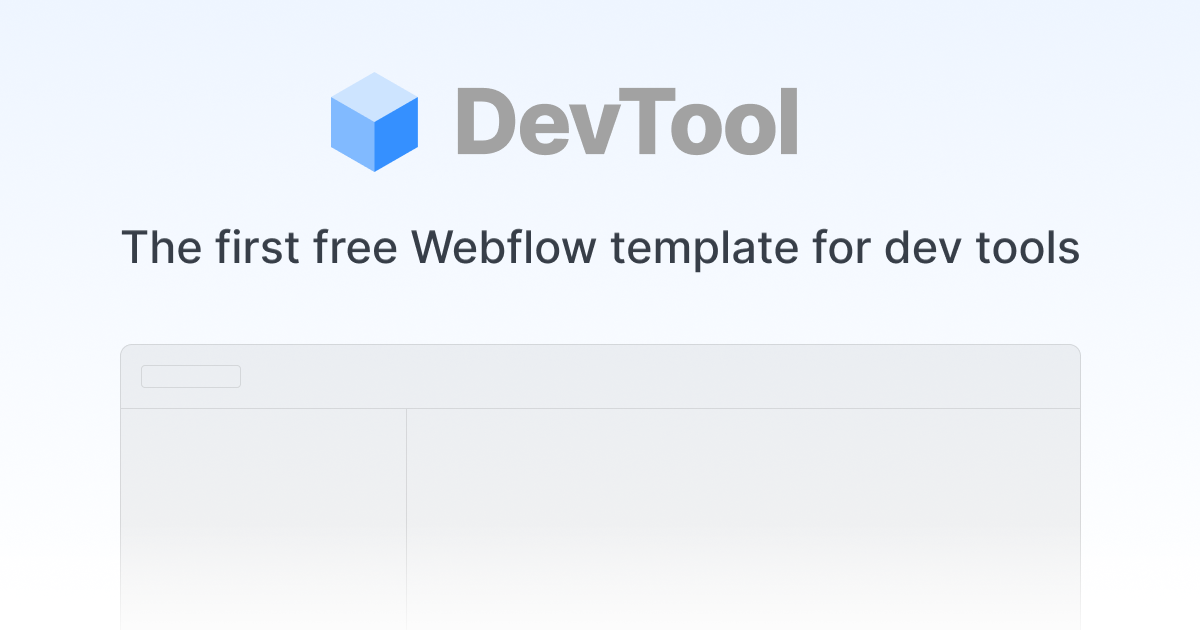
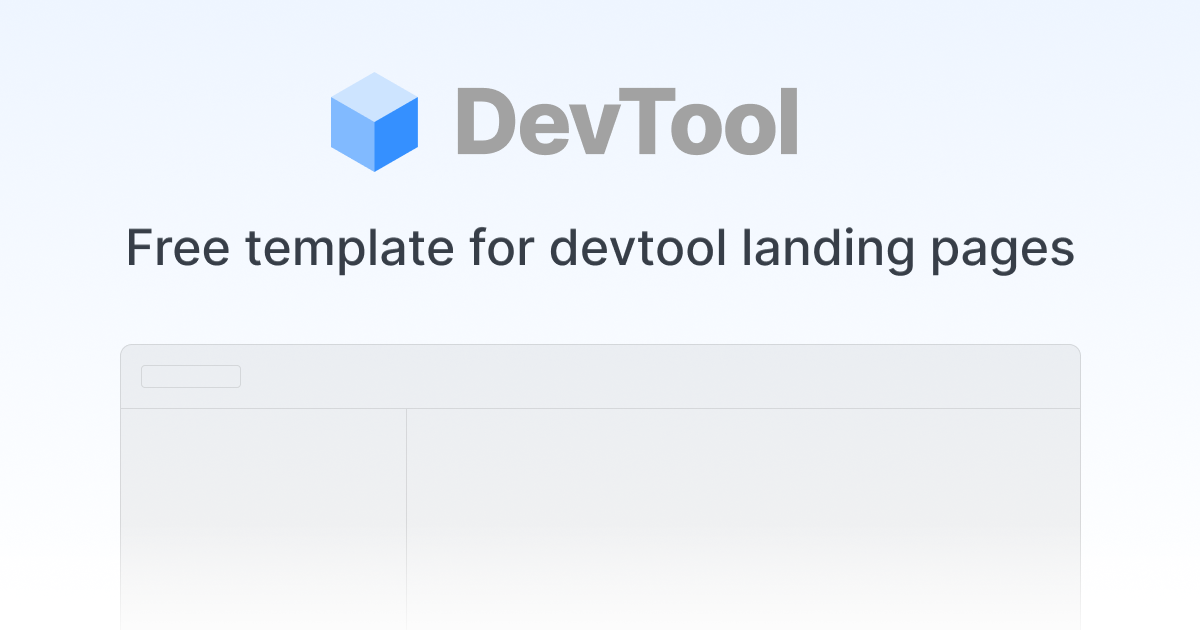
Fix naming

Changed region(s): [[0.0925, 0.3619, 0.8942, 0.4524]]

diff --git a/index.html b/index.html
@@ -4,8 +4,8 @@
 
 <head>
   <meta charset="utf-8" />
-  <title>LaunchKit — the first free template for dev tools</title>
-  <meta content="The first free template for dev tools" name="description" />
+  <title>LaunchKit — free template for devtool landing pages</title>
+  <meta content="Free template for devtool landing pages" name="description" />
   <meta content="width=device-width, initial-scale=1" name="viewport" />
 
   <!-- Open Graph -->
@@ -13,7 +13,7 @@
   <meta property="og:site_name" content="LaunchKit" />
   <meta property="og:locale" content="en_US" />
   <meta property="og:title" content="LaunchKit" />
-  <meta property="og:description" content="The first free template for dev tools" />
+  <meta property="og:description" content="Free template for devtool landing pages" />
   <meta property="og:url" content="https://launchkit.evilmartians.io" />
   <meta property="og:image" content="https://launchkit.evilmartians.io/social-image.png" />
   <meta property="og:image:width" content="1200" />
@@ -21,7 +21,7 @@
   <meta name="twitter:site" content="@evilmartians" />
   <meta name="twitter:card" content="summary_large_image" />
   <meta name="twitter:title" content="LaunchKit" />
-  <meta name="twitter:description" content="The first free template for dev tools" />
+  <meta name="twitter:description" content="Free template for devtool landing pages" />
   <meta name="twitter:image" content="https://launchkit.evilmartians.io/social-image.png" />
   <meta name="twitter:url" content="https://launchkit.evilmartians.io" />
 
@@ -70,7 +70,7 @@
         <div class="heading hero centered">
           <a href="#" class="eyebrow">Version 2.0 released!</a>
           <h1 class="balanced">
-            Free template for dev tool landing pages
+            Free template for devtool landing pages
           </h1>
           <p class="paragraph m secondary balanced">
             Use this template to launch a landing page for your next developer tool or open-source project.
